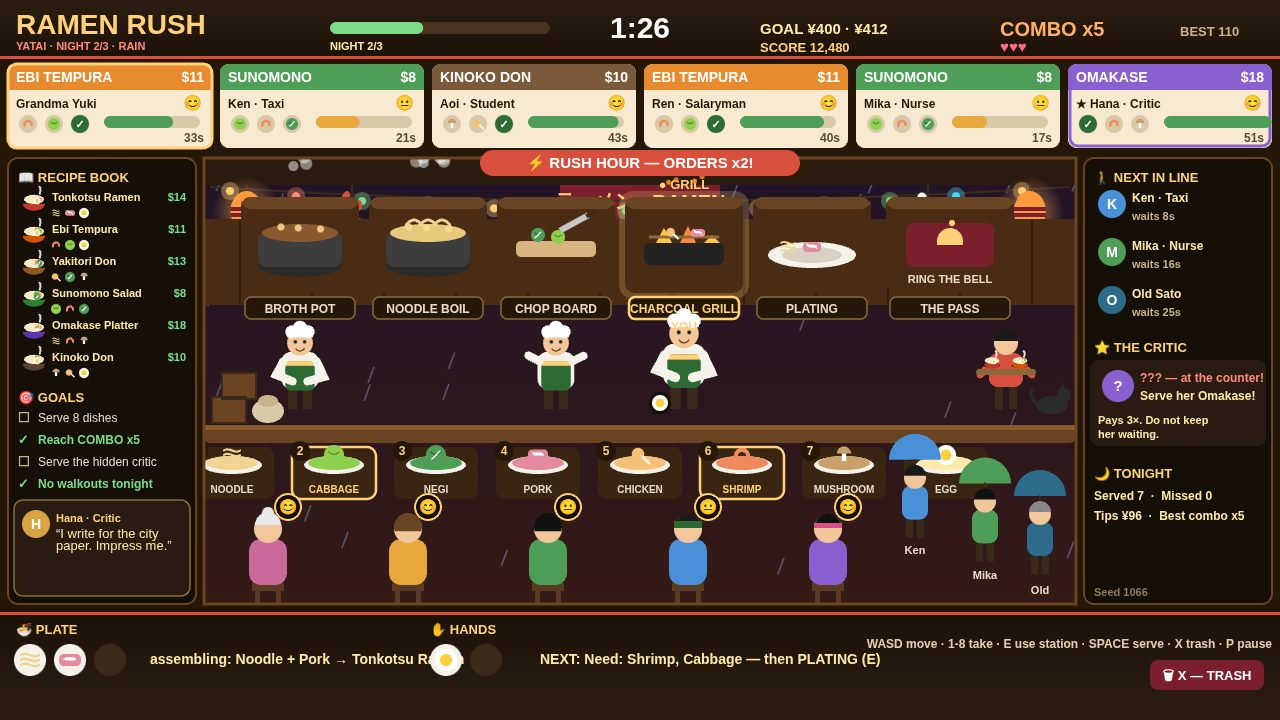
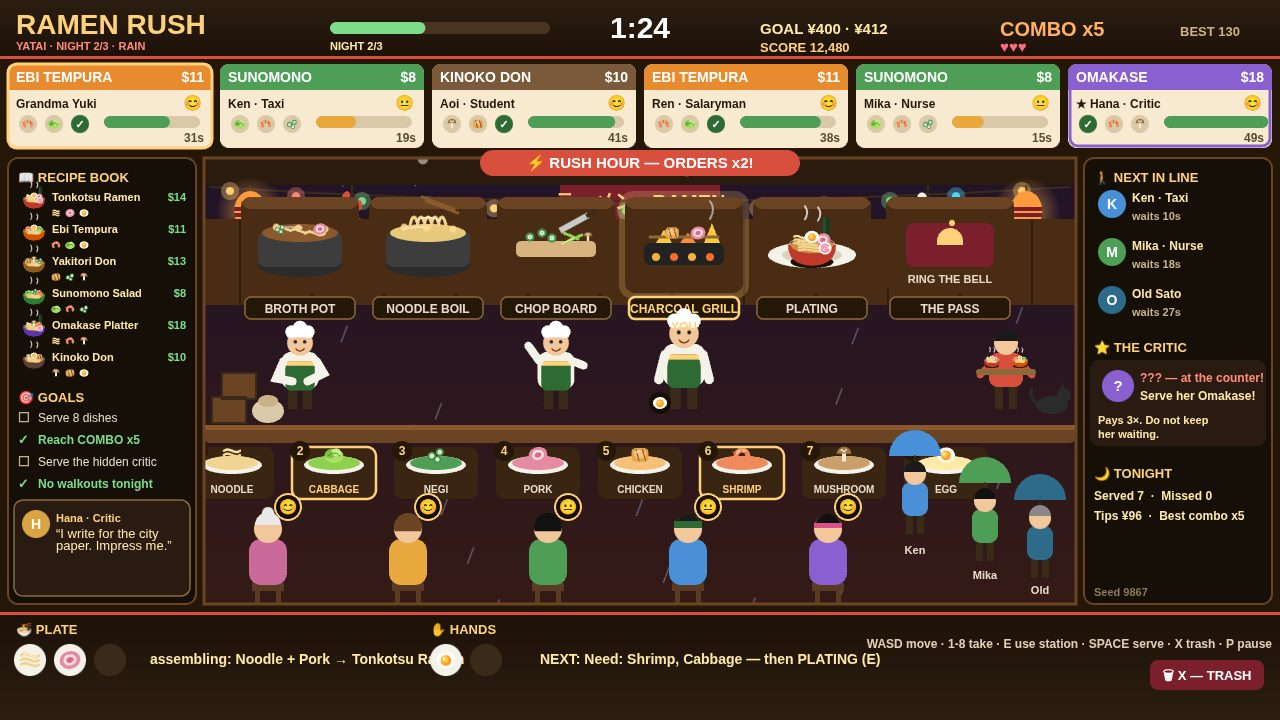
v6: real food art
Ramen bowls: glossy broth, noodle swirls, chashu, ajitama egg,
narutomaki, negi rings, nori, steam. Ingredient icons redrawn as
real food (noodle bundle, layered cabbage, negi rings, chashu,
char-marked yakitori, segmented shrimp, shiitake, ajitama).
Stations: broth with swirls + chashu, noodle bundle on chopsticks,
chopped negi + cabbage shreds, grill coals + smoke, plating now
serves a composed bowl. Playtest 24/24, 0 errors, dossier
byte-identical.

diff --git a/game/src/render.js b/game/src/render.js
@@ -34,46 +34,130 @@
     g.fillStyle = gr; g.fillRect(x, y, w, h);
   }
 
-  // ---- ingredient mini-icons (drawn, no images) ----
+  // ---- ingredient mini-icons: real food, drawn, no images ----
+  // Each icon must read as the actual ingredient at a glance, even at r=5-6
+  // (ticket dots, recipe-book dots) and at r=10-11 (bins, plate, hands).
   function ingIcon(g, name, x, y, r) {
     g.save();
     g.translate(x, y);
-    const B = RR.BINS.find((b) => b.name === name) || { color: '#fff', dark: '#888' };
+    g.lineCap = 'round'; g.lineJoin = 'round';
     if (name === 'Noodle') {
-      g.strokeStyle = B.color; g.lineWidth = r * 0.22; g.lineCap = 'round';
-      for (let i = -1; i <= 1; i++) { g.beginPath(); g.moveTo(-r + 2, i * r * 0.45); g.bezierCurveTo(-r * 0.3, i * r * 0.45 - r * 0.4, r * 0.3, i * r * 0.45 + r * 0.4, r - 2, i * r * 0.45); g.stroke(); }
-    } else if (name === 'Cabbage' || name === 'Negi') {
-      circle(g, 0, 0, r, B.color);
-      g.strokeStyle = B.dark; g.lineWidth = 1.5;
-      g.beginPath(); g.moveTo(-r * 0.5, -r * 0.3); g.quadraticCurveTo(0, r * 0.2, r * 0.5, -r * 0.3); g.stroke();
-      if (name === 'Negi') { g.strokeStyle = '#fff'; g.beginPath(); g.moveTo(-r * 0.4, r * 0.4); g.lineTo(r * 0.4, -r * 0.4); g.stroke(); }
+      // wavy yellow noodle bundle + gloss strand
+      g.strokeStyle = '#f2d492'; g.lineWidth = Math.max(1.5, r * 0.26);
+      for (let i = -1; i <= 1; i++) {
+        g.beginPath(); g.moveTo(-r + 2, i * r * 0.42);
+        g.bezierCurveTo(-r * 0.35, i * r * 0.42 - r * 0.45, r * 0.35, i * r * 0.42 + r * 0.45, r - 2, i * r * 0.42);
+        g.stroke();
+      }
+      g.strokeStyle = '#fff3c9'; g.lineWidth = Math.max(1, r * 0.1);
+      g.beginPath(); g.moveTo(-r + 4, -r * 0.42); g.bezierCurveTo(-r * 0.3, -r * 0.85, r * 0.3, -r * 0.05, r - 4, -r * 0.42); g.stroke();
+    } else if (name === 'Cabbage') {
+      // layered green leaves
+      g.fillStyle = '#a8e063'; g.beginPath(); g.ellipse(0, r * 0.1, r * 0.95, r * 0.7, 0, 0, Math.PI * 2); g.fill();
+      g.fillStyle = '#7cc242'; g.beginPath(); g.ellipse(-r * 0.3, -r * 0.15, r * 0.6, r * 0.45, -0.4, 0, Math.PI * 2); g.fill();
+      g.fillStyle = '#c4ec8a'; g.beginPath(); g.ellipse(r * 0.25, -r * 0.25, r * 0.5, r * 0.4, 0.4, 0, Math.PI * 2); g.fill();
+      g.strokeStyle = '#5d9430'; g.lineWidth = Math.max(1, r * 0.08);
+      g.beginPath(); g.moveTo(-r * 0.6, r * 0.1); g.quadraticCurveTo(0, -r * 0.5, r * 0.6, r * 0.1); g.stroke();
+    } else if (name === 'Negi') {
+      // scallion rings: green rims, white centres, pale core
+      const ring = (dx, dy, q) => {
+        circle(g, dx, dy, q, '#3f8f46');
+        circle(g, dx, dy, q * 0.55, '#f5f2ea');
+        circle(g, dx, dy, q * 0.22, '#9ed69a');
+      };
+      ring(-r * 0.42, r * 0.1, r * 0.42); ring(r * 0.38, -r * 0.28, r * 0.4); ring(r * 0.15, r * 0.45, r * 0.36);
     } else if (name === 'Pork') {
-      g.fillStyle = B.color; rr(g, -r, -r * 0.55, r * 2, r * 1.1, r * 0.4); g.fill();
-      g.fillStyle = '#fff'; rr(g, -r * 0.6, -r * 0.25, r * 1.2, r * 0.3, 3); g.fill();
+      // chashu slice: pink meat, white fat ring, darker core + gloss
+      g.fillStyle = '#e58aa0'; g.beginPath(); g.ellipse(0, 0, r * 0.95, r * 0.8, -0.3, 0, Math.PI * 2); g.fill();
+      g.fillStyle = '#f7d9de'; g.beginPath(); g.ellipse(0, 0, r * 0.62, r * 0.5, -0.3, 0, Math.PI * 2); g.fill();
+      g.fillStyle = '#d96a84'; g.beginPath(); g.ellipse(0, 0, r * 0.34, r * 0.26, -0.3, 0, Math.PI * 2); g.fill();
+      g.fillStyle = 'rgba(255,255,255,0.5)'; g.beginPath(); g.ellipse(-r * 0.3, -r * 0.35, r * 0.25, r * 0.12, -0.5, 0, Math.PI * 2); g.fill();
     } else if (name === 'Chicken') {
-      circle(g, -r * 0.2, -r * 0.1, r * 0.62, B.color);
-      g.strokeStyle = '#f5f2ea'; g.lineWidth = r * 0.3; g.lineCap = 'round';
-      g.beginPath(); g.moveTo(r * 0.3, r * 0.2); g.lineTo(r * 0.9, r * 0.8); g.stroke();
+      // golden yakitori piece with char stripes + gloss
+      g.fillStyle = '#e8a54b'; rr(g, -r * 0.85, -r * 0.7, r * 1.7, r * 1.4, r * 0.45); g.fill();
+      g.fillStyle = '#f6c177'; rr(g, -r * 0.6, -r * 0.5, r * 1.2, r * 0.8, r * 0.35); g.fill();
+      g.strokeStyle = '#8a5a2e'; g.lineWidth = Math.max(1.2, r * 0.12);
+      g.beginPath(); g.moveTo(-r * 0.4, -r * 0.55); g.lineTo(-r * 0.1, r * 0.55); g.stroke();
+      g.beginPath(); g.moveTo(r * 0.25, -r * 0.55); g.lineTo(r * 0.55, r * 0.55); g.stroke();
+      g.fillStyle = 'rgba(255,255,255,0.45)'; g.beginPath(); g.ellipse(-r * 0.25, -r * 0.3, r * 0.3, r * 0.12, -0.4, 0, Math.PI * 2); g.fill();
     } else if (name === 'Shrimp') {
-      g.strokeStyle = B.color; g.lineWidth = r * 0.42; g.lineCap = 'round';
-      g.beginPath(); g.arc(0, r * 0.1, r * 0.62, Math.PI * 0.9, Math.PI * 2.05); g.stroke();
+      // orange curved shrimp: segmented body + tail fan
+      g.strokeStyle = '#f08a5c'; g.lineWidth = Math.max(2, r * 0.5);
+      g.beginPath(); g.arc(0, r * 0.12, r * 0.6, Math.PI * 0.85, Math.PI * 2.1); g.stroke();
+      g.strokeStyle = '#ffbe8a'; g.lineWidth = Math.max(1.2, r * 0.22);
+      g.beginPath(); g.arc(0, r * 0.12, r * 0.6, Math.PI * 1.15, Math.PI * 1.75); g.stroke();
+      g.fillStyle = '#e86a3d';
+      g.save(); g.translate(-r * 0.55, -r * 0.35); g.rotate(-0.7);
+      g.beginPath(); g.moveTo(0, 0); g.lineTo(-r * 0.35, -r * 0.25); g.lineTo(-r * 0.3, r * 0.2); g.closePath(); g.fill();
+      g.restore();
+      g.strokeStyle = '#c25a2e'; g.lineWidth = Math.max(1, r * 0.09);
+      g.beginPath(); g.moveTo(-r * 0.1, -r * 0.5); g.lineTo(-r * 0.05, -r * 0.28); g.stroke();
+      g.beginPath(); g.moveTo(r * 0.42, -r * 0.32); g.lineTo(r * 0.3, -r * 0.12); g.stroke();
     } else if (name === 'Mushroom') {
-      g.fillStyle = B.color; g.beginPath(); g.arc(0, -r * 0.15, r * 0.72, Math.PI, 0); g.fill();
-      g.fillStyle = '#fff'; g.fillRect(-r * 0.22, -r * 0.15, r * 0.44, r * 0.75);
-    } else { // Egg
-      circle(g, 0, 0, r, '#fff');
-      circle(g, 0, 0, r * 0.55, '#ffcf3f');
+      // shiitake: brown cap, cream stem, pale star cut + gloss
+      g.fillStyle = '#8f6b3a'; g.beginPath(); g.arc(0, -r * 0.1, r * 0.75, Math.PI, 0); g.fill();
+      g.fillStyle = '#a87c46'; g.beginPath(); g.arc(0, -r * 0.1, r * 0.6, Math.PI * 1.05, Math.PI * 1.95); g.fill();
+      g.fillStyle = '#f5ead2'; g.fillRect(-r * 0.2, -r * 0.15, r * 0.4, r * 0.8);
+      g.strokeStyle = '#f5ead2'; g.lineWidth = Math.max(1, r * 0.1);
+      g.beginPath(); g.moveTo(-r * 0.25, -r * 0.55); g.lineTo(0, -r * 0.3); g.lineTo(r * 0.25, -r * 0.55); g.stroke();
+      g.fillStyle = 'rgba(255,255,255,0.35)'; g.beginPath(); g.ellipse(-r * 0.3, -r * 0.5, r * 0.2, r * 0.1, -0.5, 0, Math.PI * 2); g.fill();
+    } else { // Egg — ajitama half: white oval, glossy orange yolk
+      g.fillStyle = '#fffdf5'; g.beginPath(); g.ellipse(0, 0, r * 0.9, r * 0.75, 0, 0, Math.PI * 2); g.fill();
+      g.fillStyle = '#ff9d2e'; g.beginPath(); g.arc(0, r * 0.05, r * 0.48, 0, Math.PI * 2); g.fill();
+      g.fillStyle = '#ffc93d'; g.beginPath(); g.arc(-r * 0.1, -r * 0.05, r * 0.3, 0, Math.PI * 2); g.fill();
+      g.fillStyle = 'rgba(255,255,255,0.85)'; g.beginPath(); g.arc(-r * 0.18, -r * 0.12, r * 0.1, 0, Math.PI * 2); g.fill();
     }
     g.restore();
   }
+  // A real ramen bowl: lacquered bowl + glossy broth + noodle swirls +
+  // recognisable toppings from the recipe + narutomaki + nori + steam.
   function bowlIcon(g, recipe, x, y, r) {
     g.save(); g.translate(x, y);
-    g.fillStyle = '#1d1208'; g.beginPath(); g.ellipse(0, r * 0.55, r * 1.05, r * 0.3, 0, 0, Math.PI * 2); g.fill();
-    g.fillStyle = recipe.bowl; g.beginPath(); g.ellipse(0, r * 0.35, r, r * 0.62, 0, 0, Math.PI); g.fill();
-    g.fillStyle = '#f7e8c8'; g.beginPath(); g.ellipse(0, -r * 0.05, r * 0.92, r * 0.42, 0, 0, Math.PI * 2); g.fill();
-    recipe.needs.forEach((n, i) => { const a = -0.9 + i * 0.9; ingIcon(g, n, Math.cos(a) * r * 0.45, -r * 0.05 + Math.sin(a) * r * 0.16, r * 0.3); });
-    g.strokeStyle = 'rgba(255,255,255,0.85)'; g.lineWidth = 2;
-    g.beginPath(); g.moveTo(r * 0.5, -r * 0.5); g.quadraticCurveTo(r * 0.7, -r * 1.1, r * 0.45, -r * 1.25); g.stroke();
+    const tops = recipe.needs || [];
+    const isRamen = recipe.name && /ramen|omakase/i.test(recipe.name);
+    // steam wisps
+    g.strokeStyle = 'rgba(255,255,255,0.75)'; g.lineWidth = Math.max(1.2, r * 0.08); g.lineCap = 'round';
+    g.beginPath(); g.moveTo(-r * 0.3, -r * 1.15); g.quadraticCurveTo(-r * 0.1, -r * 1.45, -r * 0.3, -r * 1.7); g.stroke();
+    g.beginPath(); g.moveTo(r * 0.25, -r * 1.1); g.quadraticCurveTo(r * 0.45, -r * 1.4, r * 0.25, -r * 1.65); g.stroke();
+    // nori sheet standing at the back (ramen only)
+    if (isRamen) {
+      g.fillStyle = '#1d3a1d'; rr(g, r * 0.42, -r * 1.25, r * 0.34, r * 0.85, 2); g.fill();
+      g.fillStyle = '#2a5230'; g.fillRect(r * 0.46, -r * 1.2, r * 0.1, r * 0.7);
+    }
+    // table shadow + bowl body
+    g.fillStyle = '#1d1208'; g.beginPath(); g.ellipse(0, r * 0.62, r * 0.9, r * 0.26, 0, 0, Math.PI * 2); g.fill();
+    g.fillStyle = recipe.bowl || '#c0392b';
+    g.beginPath(); g.moveTo(-r, -r * 0.1);
+    g.quadraticCurveTo(-r, r * 0.75, 0, r * 0.78);
+    g.quadraticCurveTo(r, r * 0.75, r, -r * 0.1);
+    g.closePath(); g.fill();
+    // rim highlight
+    g.strokeStyle = 'rgba(255,255,255,0.35)'; g.lineWidth = Math.max(1, r * 0.06);
+    g.beginPath(); g.ellipse(0, -r * 0.1, r * 0.96, r * 0.3, 0, Math.PI, Math.PI * 2); g.stroke();
+    // broth surface: warm amber + lighter pool + gloss arc
+    g.fillStyle = '#c98f3f'; g.beginPath(); g.ellipse(0, -r * 0.08, r * 0.88, r * 0.34, 0, 0, Math.PI * 2); g.fill();
+    g.fillStyle = '#e0aa58'; g.beginPath(); g.ellipse(-r * 0.15, -r * 0.14, r * 0.55, r * 0.18, 0, 0, Math.PI * 2); g.fill();
+    g.strokeStyle = 'rgba(255,255,255,0.55)'; g.lineWidth = Math.max(1, r * 0.07);
+    g.beginPath(); g.ellipse(0, -r * 0.08, r * 0.7, r * 0.24, 0, Math.PI * 1.15, Math.PI * 1.6); g.stroke();
+    // noodle swirls on the broth
+    g.strokeStyle = '#f2d492'; g.lineWidth = Math.max(1.2, r * 0.1);
+    for (let i = -1; i <= 1; i++) {
+      g.beginPath(); g.moveTo(-r * 0.55, r * 0.02 + i * r * 0.12);
+      g.bezierCurveTo(-r * 0.2, r * 0.02 + i * r * 0.12 - r * 0.14, r * 0.2, r * 0.02 + i * r * 0.12 + r * 0.14, r * 0.55, r * 0.02 + i * r * 0.12);
+      g.stroke();
+    }
+    // toppings from the recipe, arranged on the broth
+    const pos = [[-r * 0.5, -r * 0.28], [r * 0.45, -r * 0.3], [0, -r * 0.42], [-r * 0.1, r * 0.1], [r * 0.2, r * 0.12]];
+    tops.forEach((n, i) => { const p = pos[i % pos.length]; ingIcon(g, n, p[0], p[1], r * 0.34); });
+    // narutomaki — white disc with pink spiral (ramen signature)
+    if (isRamen) {
+      g.save(); g.translate(r * 0.55, r * 0.05);
+      circle(g, 0, 0, r * 0.26, '#fff');
+      g.strokeStyle = '#ff7fa5'; g.lineWidth = Math.max(1, r * 0.07);
+      g.beginPath(); g.arc(0, 0, r * 0.16, 0.3, Math.PI * 1.8); g.stroke();
+      g.beginPath(); g.arc(0, 0, r * 0.07, Math.PI, Math.PI * 2.6); g.stroke();
+      g.restore();
+    }
     g.restore();
   }
 
@@ -166,21 +250,57 @@
       g.fillStyle = '#3d3d3d'; rr(g, cx - 42, cy - 18, 84, 36, 8); g.fill();
       g.fillStyle = st.id === 'broth' ? '#8a5a2e' : '#e8c87a';
       g.beginPath(); g.ellipse(cx, cy - 16, 38, 9, 0, 0, Math.PI * 2); g.fill();
+      // gloss on the liquid
+      g.strokeStyle = 'rgba(255,255,255,0.45)'; g.lineWidth = 2;
+      g.beginPath(); g.ellipse(cx - 8, cy - 18, 18, 4, 0, Math.PI * 1.1, Math.PI * 1.7); g.stroke();
       for (let i = 0; i < 3; i++) {
         const bx = cx - 22 + i * 22 + Math.sin(t * 3 + i * 2) * 3;
         circle(g, bx, cy - 18 - ((t * 14 + i * 9) % 10), 3.5, 'rgba(255,220,150,0.85)');
       }
-      if (st.id === 'noodle') {
-        g.strokeStyle = '#f2d492'; g.lineWidth = 3; g.lineCap = 'round';
-        for (let i = -1; i <= 1; i++) { g.beginPath(); g.moveTo(cx + i * 14 - 8, cy - 24); g.quadraticCurveTo(cx + i * 14, cy - 34, cx + i * 14 + 8, cy - 24); g.stroke(); }
+      if (st.id === 'broth') {
+        // noodle swirls lying in the rich broth + chashu and negi on top
+        g.strokeStyle = '#f2d492'; g.lineWidth = 2.5; g.lineCap = 'round';
+        for (let i = -1; i <= 1; i++) {
+          g.beginPath(); g.moveTo(cx + i * 15 - 10, cy - 18 + i * 2.5);
+          g.bezierCurveTo(cx + i * 15 - 3, cy - 24 + i * 2.5, cx + i * 15 + 3, cy - 12 + i * 2.5, cx + i * 15 + 10, cy - 18 + i * 2.5);
+          g.stroke();
+        }
+        ingIcon(g, 'Pork', cx + 20, cy - 20, 7);
+        ingIcon(g, 'Negi', cx - 20, cy - 20, 6);
+      } else {
+        // noodle boil: a lifted bundle on chopsticks
+        g.strokeStyle = '#8a5a2e'; g.lineWidth = 3; g.lineCap = 'round';
+        g.beginPath(); g.moveTo(cx - 6, cy - 52); g.lineTo(cx + 26, cy - 40); g.stroke();
+        g.beginPath(); g.moveTo(cx - 2, cy - 48); g.lineTo(cx + 30, cy - 36); g.stroke();
+        g.strokeStyle = '#f2d492'; g.lineWidth = 3;
+        for (let i = -2; i <= 2; i++) { g.beginPath(); g.moveTo(cx + i * 7 - 4, cy - 24); g.quadraticCurveTo(cx + i * 7, cy - 40, cx + i * 7 + 4, cy - 24); g.stroke(); }
+        g.strokeStyle = '#fff3c9'; g.lineWidth = 1.2;
+        g.beginPath(); g.moveTo(cx - 12, cy - 28); g.quadraticCurveTo(cx, cy - 36, cx + 12, cy - 28); g.stroke();
       }
     } else if (st.id === 'chop') {
       g.fillStyle = '#d9b380'; rr(g, cx - 40, cy - 8, 80, 16, 5); g.fill();
       const ch = active ? Math.sin(t * 16) * 10 : 0;
       g.fillStyle = '#c9c9c9'; g.save(); g.translate(cx + 18, cy - 26 + ch); g.rotate(-0.5); g.fillRect(-16, -3, 32, 6); g.fillStyle = '#3a2a1a'; g.fillRect(14, -2, 12, 4); g.restore();
-      ingIcon(g, 'Negi', cx - 18, cy - 14, 7); ingIcon(g, 'Cabbage', cx + 2, cy - 12, 7);
+      // chopped negi rings scattered on the board
+      [[-26, -12], [-14, -16], [-4, -11]].forEach(([dx, dy]) => {
+        circle(g, cx + dx, cy + dy, 4.5, '#3f8f46');
+        circle(g, cx + dx, cy + dy, 2.4, '#f5f2ea');
+        circle(g, cx + dx, cy + dy, 1, '#9ed69a');
+      });
+      // cabbage shreds
+      g.strokeStyle = '#8fd14f'; g.lineWidth = 3; g.lineCap = 'round';
+      g.beginPath(); g.moveTo(cx + 8, cy - 16); g.lineTo(cx + 22, cy - 10); g.stroke();
+      g.beginPath(); g.moveTo(cx + 12, cy - 8); g.lineTo(cx + 26, cy - 14); g.stroke();
+      g.strokeStyle = '#c4ec8a'; g.lineWidth = 2;
+      g.beginPath(); g.moveTo(cx + 6, cy - 5); g.lineTo(cx + 18, cy - 11); g.stroke();
+      // a sliced mushroom
+      ingIcon(g, 'Mushroom', cx + 32, cy - 12, 6);
     } else if (st.id === 'grill') {
       g.fillStyle = '#222'; rr(g, cx - 40, cy - 6, 80, 22, 6); g.fill();
+      // glowing coals under the grate
+      for (let i = 0; i < 4; i++) {
+        circle(g, cx - 28 + i * 18, cy + 8, 4, i % 2 ? '#ff6a2a' : '#ffb03d');
+      }
       for (let i = 0; i < 3; i++) {
         const fh = 14 + Math.sin(t * 11 + i * 2.4) * 6;
         g.fillStyle = i % 2 ? '#ff8a3d' : '#ffc93d';
@@ -188,17 +308,22 @@
       }
       g.strokeStyle = '#8a6a3a'; g.lineWidth = 3;
       g.beginPath(); g.moveTo(cx - 34, cy - 12); g.lineTo(cx + 34, cy - 12); g.stroke();
-      ingIcon(g, 'Chicken', cx - 12, cy - 16, 7); ingIcon(g, 'Pork', cx + 14, cy - 16, 7);
+      ingIcon(g, 'Chicken', cx - 12, cy - 16, 8); ingIcon(g, 'Pork', cx + 14, cy - 16, 8);
+      // smoke wisp
+      g.strokeStyle = 'rgba(255,255,255,0.55)'; g.lineWidth = 2; g.lineCap = 'round';
+      g.beginPath(); g.moveTo(cx + 26, cy - 30); g.quadraticCurveTo(cx + 32, cy - 40, cx + 26, cy - 48); g.stroke();
     } else if (st.id === 'plating') {
       const G = RR.game;
       g.fillStyle = '#f5f2ea'; g.beginPath(); g.ellipse(cx, cy + 6, 44, 13, 0, 0, Math.PI * 2); g.fill();
       g.fillStyle = '#d9d2c2'; g.beginPath(); g.ellipse(cx, cy + 6, 30, 8, 0, 0, Math.PI * 2); g.fill();
       if (G.plate.length) {
-        G.plate.forEach((n, i) => ingIcon(g, n, cx - 24 + i * 24, cy - 2, 9));
+        // a composed bowl: glossy broth + noodle swirls + the plated toppings
+        const rec = G.plateRecipe || { name: 'Bowl', needs: G.plate.slice(), bowl: '#c0392b' };
+        bowlIcon(g, rec, cx, cy - 2, 24);
         if (G.plateState === 'cooking' || G.plateState === 'ready') {
           const p = G.plateState === 'ready' ? 1 : G.plateTimer / RR.CONFIG.cookTime;
           g.strokeStyle = G.plateState === 'ready' ? '#7ddb8a' : '#ffd27a'; g.lineWidth = 5;
-          g.beginPath(); g.arc(cx, cy - 2, 30, -Math.PI / 2, -Math.PI / 2 + p * Math.PI * 2); g.stroke();
+          g.beginPath(); g.arc(cx, cy - 2, 32, -Math.PI / 2, -Math.PI / 2 + p * Math.PI * 2); g.stroke();
         }
       } else {
         txt(g, 'EMPTY PLATE', cx, cy + 2, 11, '#8a7a5a', 'center');
